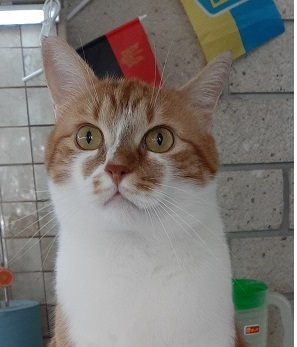
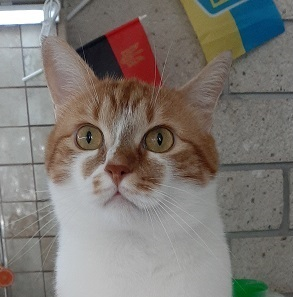
Initial commit

diff --git a/index.html b/index.html
@@ -17,16 +17,16 @@
 <div class="container flexbox w-100 d-flex  p-1 b-3-black-50 mb-1 mt-5 mx-auto my-auto shadow ">
       
 
-      <div class="card-pfoto w-100 p-2 m-1 b-3-black-50 shadow ">
-  <img src="./assets/img/RLSS2607.JPEG " class="  mt-5 w-50 " alt="pfoto">
-  <div class="card-body mt-5 p-2 mx-5 ">
-    <h5 class="card-title text-center">Cat Murchik</h5>
-    <p class="card-text text-center ">Lorem ipsum dolor</p>
-    <a href="#" class="btn btn-success bg-success ">Get in touch</a>
+<div class="card-pfoto w-100 p-2 m-1 b-3-black-50 shadow text-center">
+       <img src="./assets/img/RLSS2607.JPEG " class=" mt-5 w-50" alt="pfoto">
+   <div class="card-body mt-5 p-2 mx-5 ">
+       <h5 class="card-title text-center">Cat Murchik</h5>
+       <p class="card-text text-center ">Lorem ipsum dolor</p>
+       <a href="#" class="btn btn-success bg-success ">Get in touch</a>
   </div>
 </div>
-             <div class="containerfree d-flex flex-column p-1" >
-        <div class="components d-flex flex-wrap-wrap justify-content-between p-1 mb-1 ">
+      <div class="containerfree d-flex flex-column p-1" >
+         <div class="components d-flex flex-wrap-wrap justify-content-between mb-1 ">
            <div class="element1 d-flex flex-column justify-content-center w-50 m-1 b-3-black-50 shadow space-around ">
               <span class="1 fs-2 text-center text-success">3,536</span>
               <span class="2 text-center text-muted ">contributions</span>

diff --git a/assets/css/style.css b/assets/css/style.css
@@ -14,6 +14,7 @@ img {
    margin-left: auto;
    margin-right: auto;
 }
+   
 
- 
+
   

diff --git a/README.md b/README.md
@@ -1,0 +1,2 @@
+# homework-10
+ 
